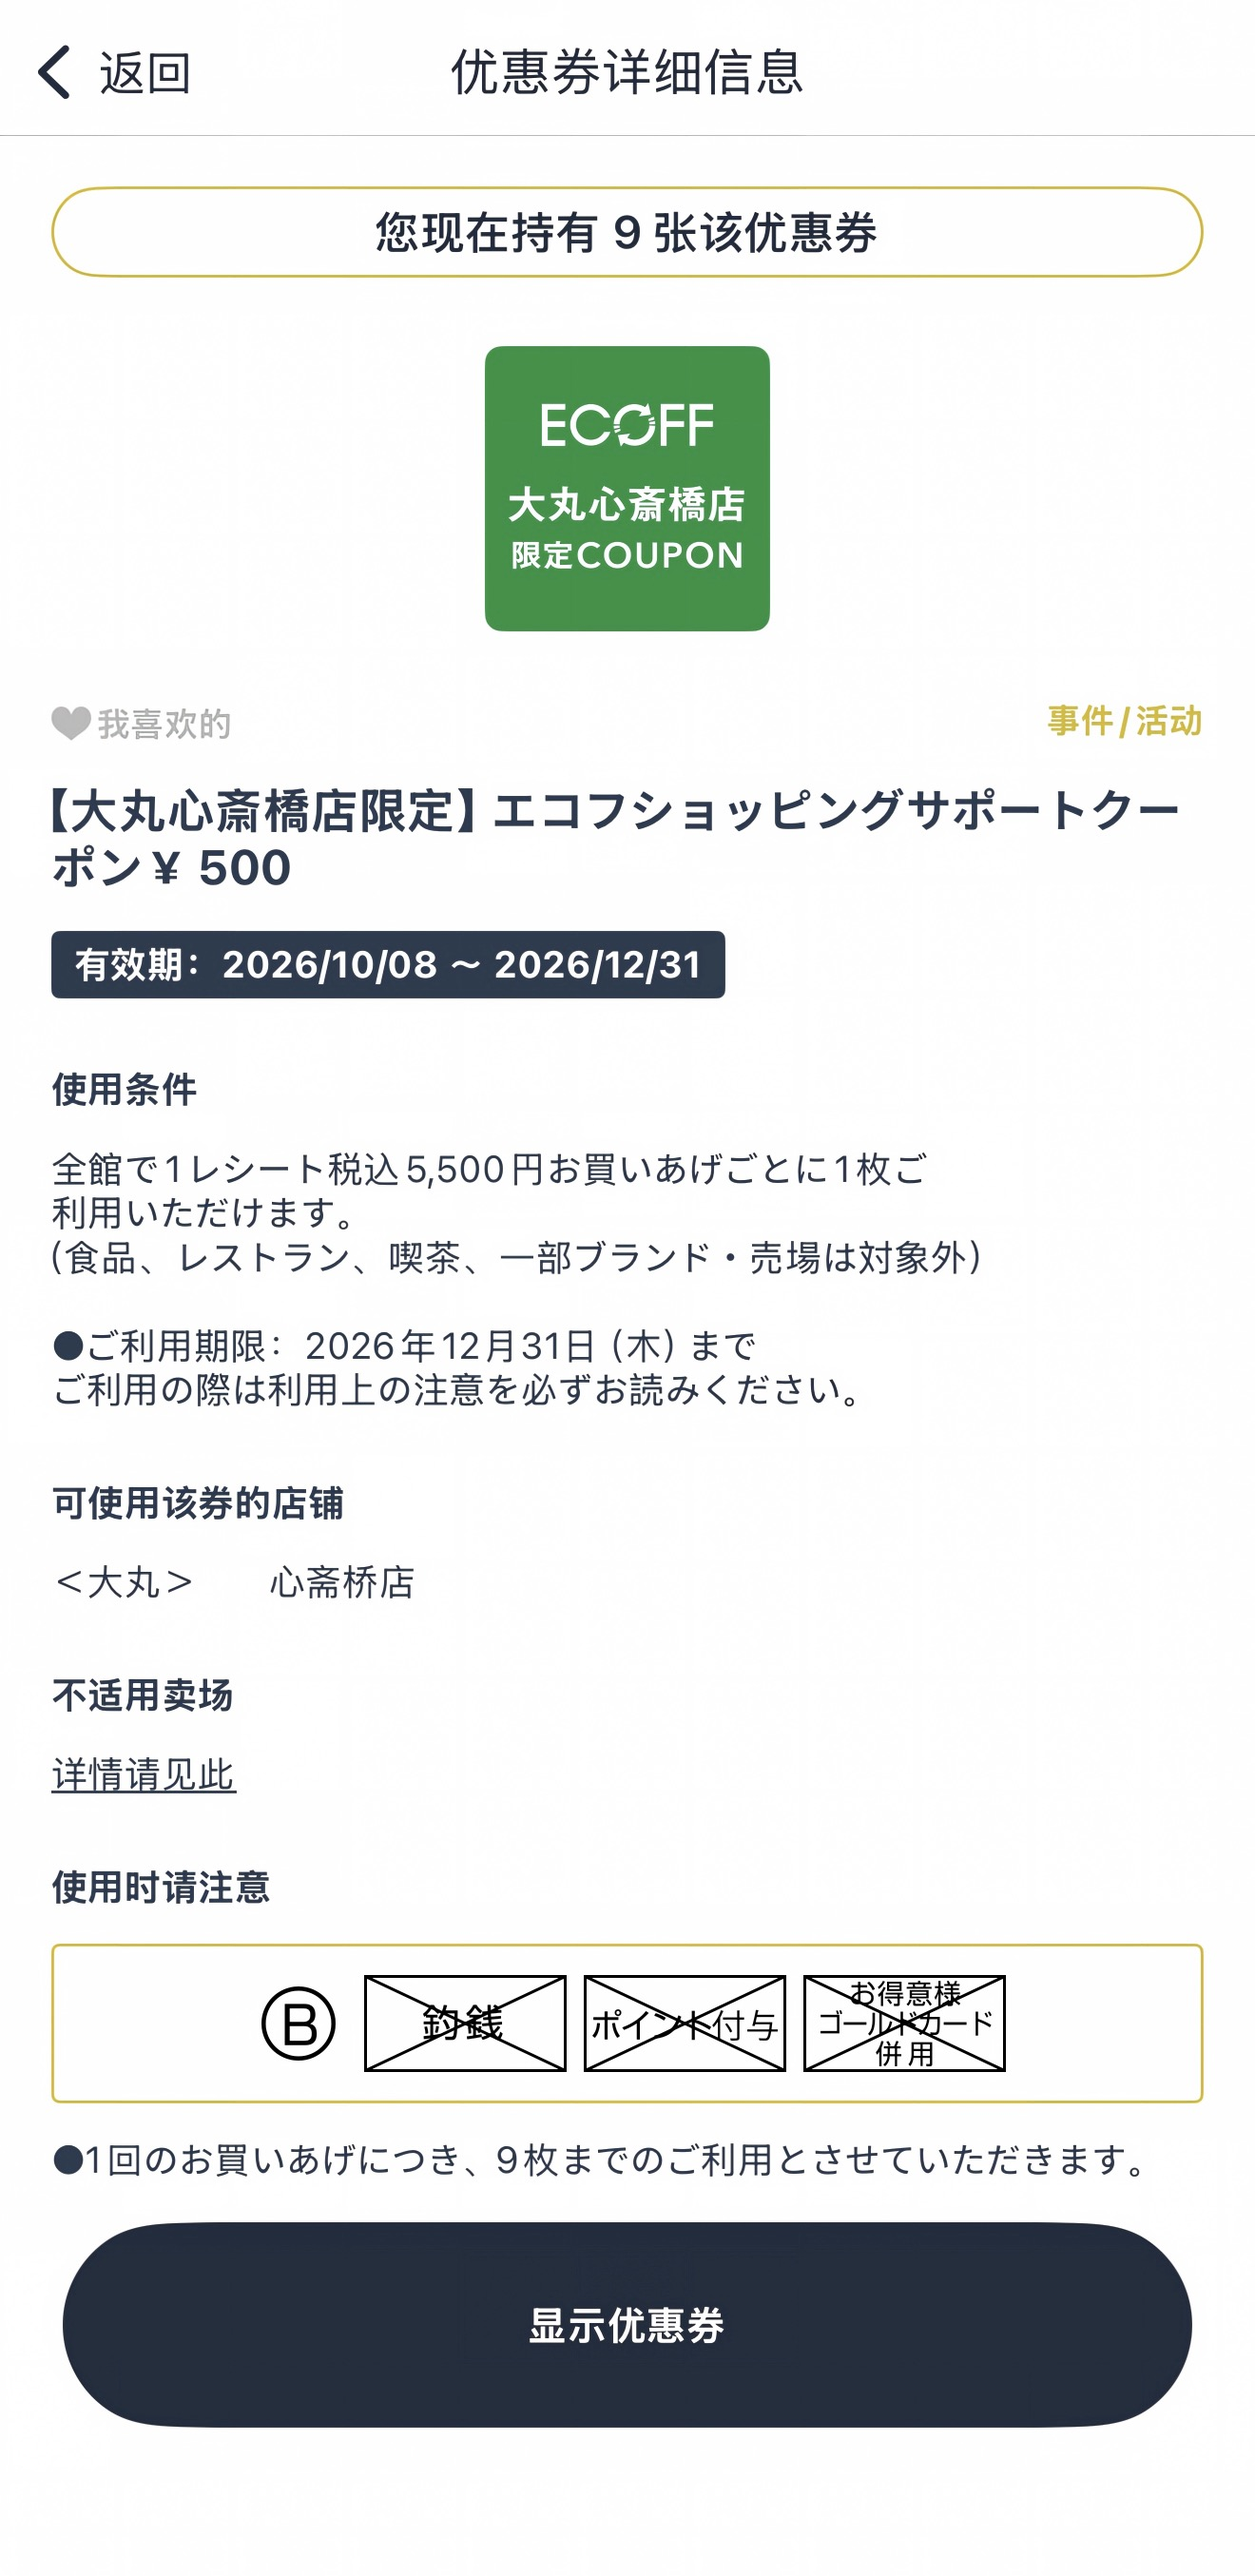
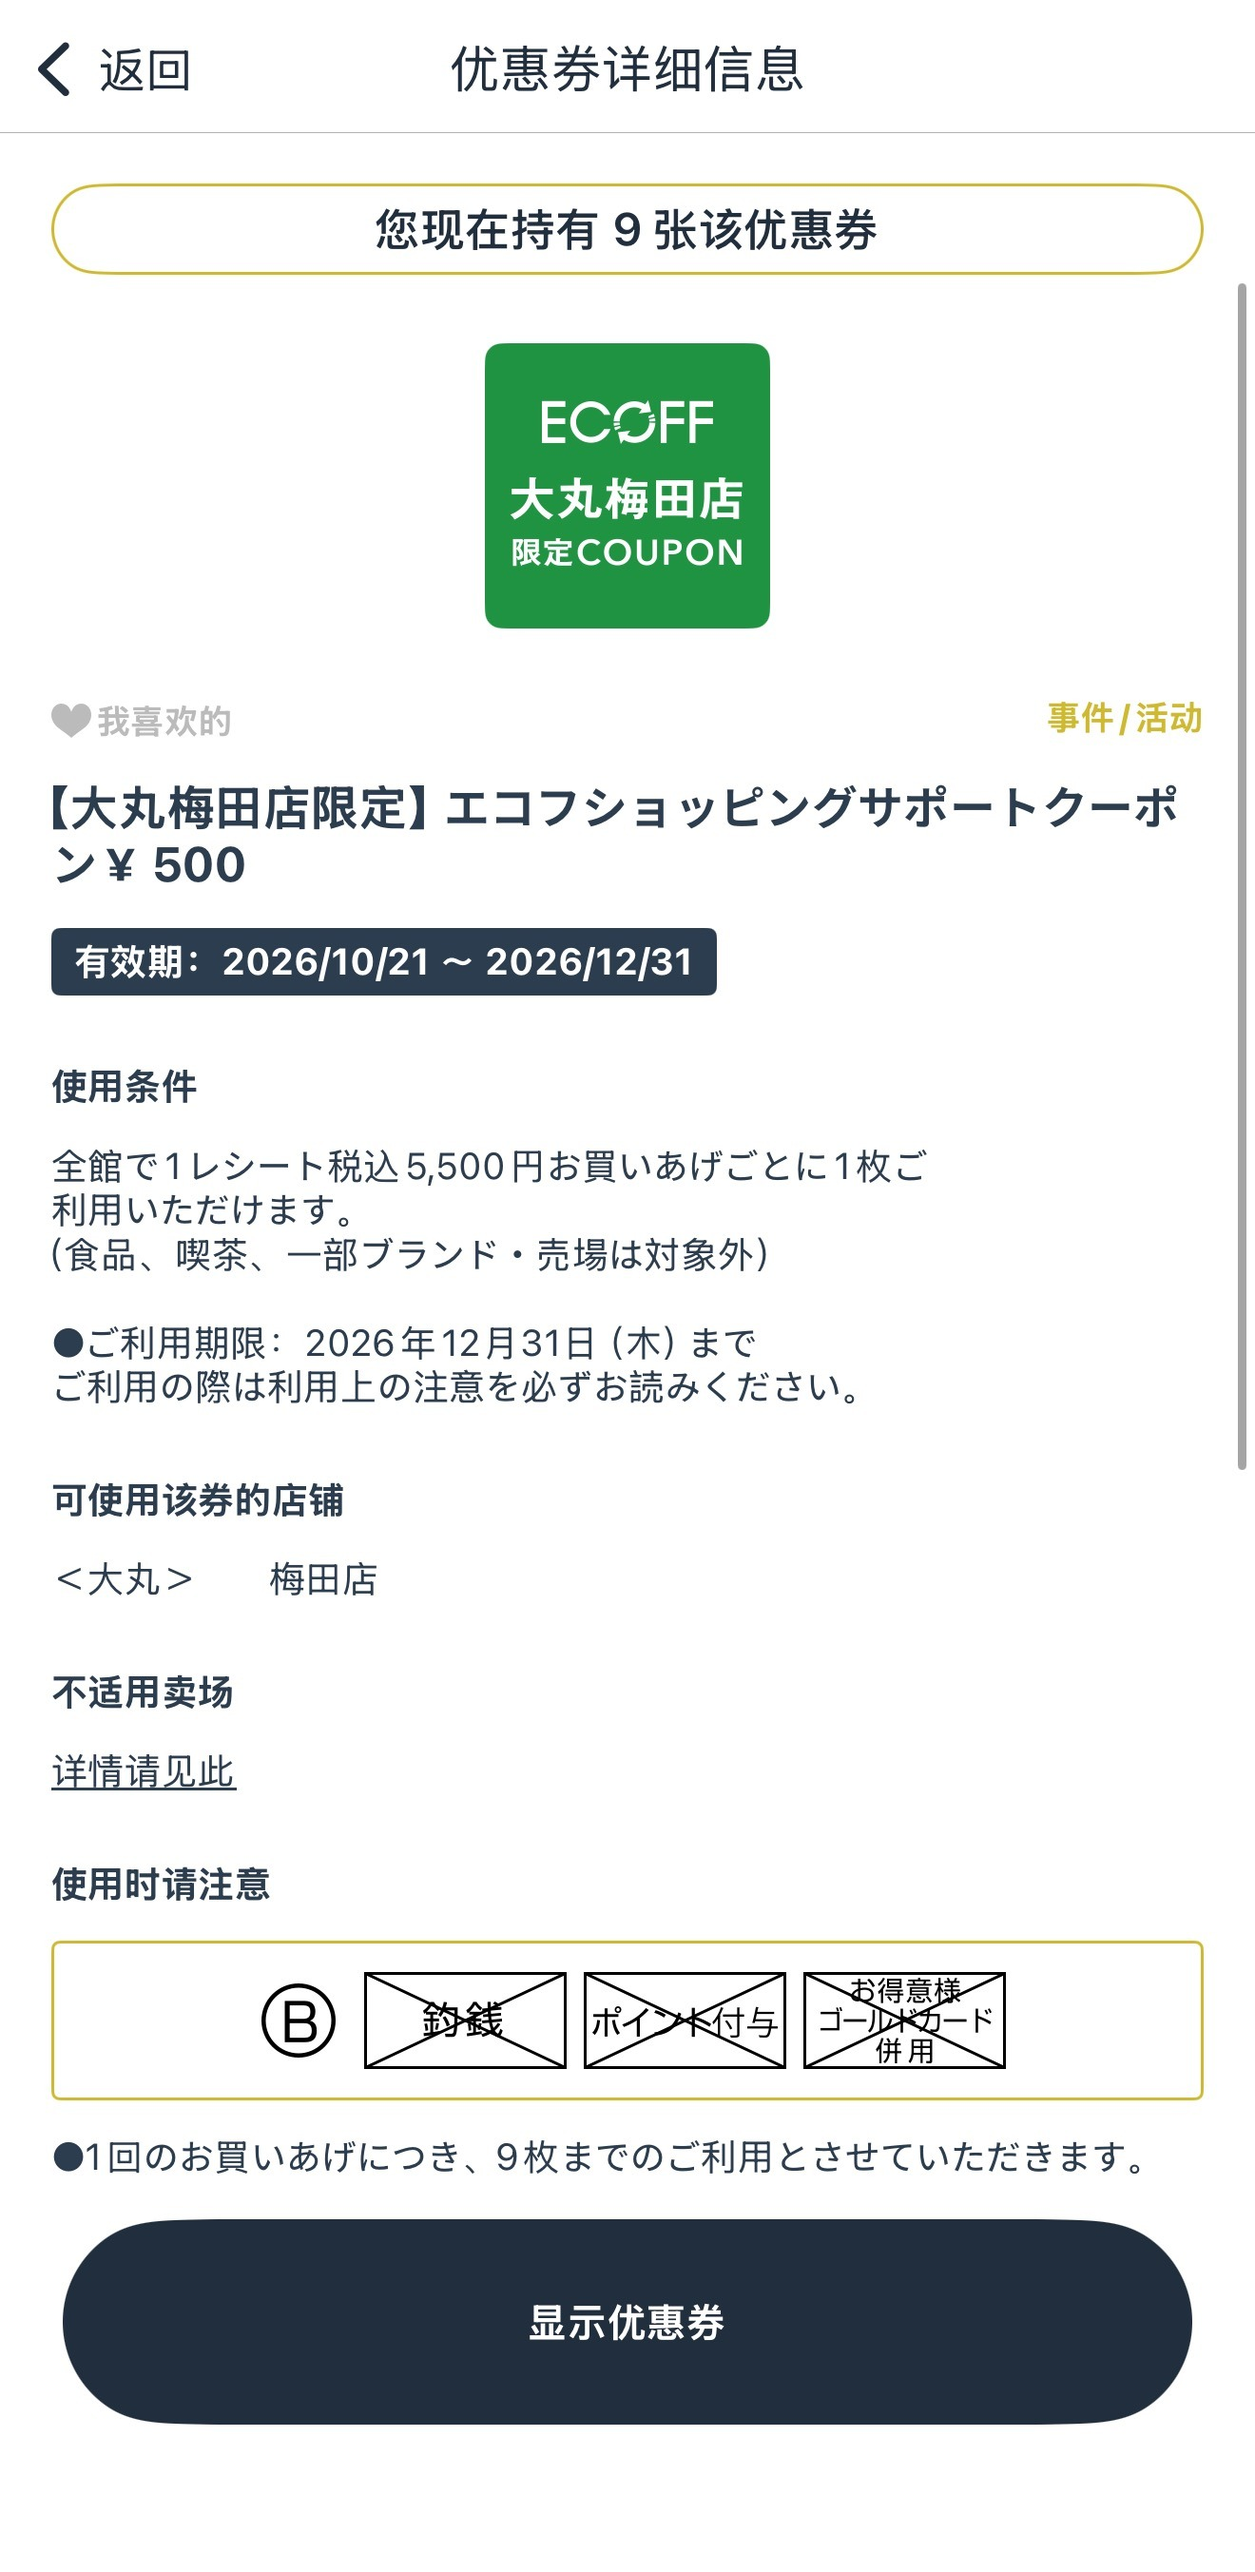
替换6张图为大丸梅田店新版；日期/时间分居时钟图标两侧；page5热区校准

diff --git a/index.html b/index.html
@@ -200,33 +200,42 @@
     .barcode-page {
       position: relative;
     }
+    /* 日期时间：竖排（rotate -90），日期和倒计时分居图中时钟图标两侧，JS 精确对位 */
     .time-display {
       position: absolute;
-      top: calc(100% * 2.5 / 3); 
-      left: calc(100% * 0.78 / 5); 
-      font-size: 7vw; 
+      top: 80%;
+      left: 14%;
+      display: flex;
+      align-items: center;
+      gap: 0.55em;
       color: #888;
       background-color: transparent;
       z-index: 10;
       transform: rotate(-90deg);
       transform-origin: top left;
-      letter-spacing: -1px;
-      font-weight: 500; 
+      font-weight: 400;
       white-space: nowrap;
       pointer-events: none;
-      font-family: "PingFang SC", "Microsoft YaHei", "Heiti SC", sans-serif; /* 系统字体序列 */
+      line-height: 1;
+      font-family: "PingFang SC", "Helvetica Neue", "Microsoft YaHei", "Heiti SC", sans-serif;
     }
-    .time-display .separator {
-      display: inline-block;
-      width: 10vw; 
-      max-width: 80px;
+    .td-date {
+      font-size: 5.5vw;
+      letter-spacing: -0.02em;
     }
-    .time-display .countdown-part {
-      color: #667380; 
-      font-weight: 400; 
-      font-size: 0.9em; 
+    .td-gap {
+      /* 让出图中自带的时钟图标位置 */
+      flex: 0 0 auto;
+      width: 6.6vw;
+      align-self: center;
     }
-    .time-display .expired {
+    .td-time {
+      font-size: 4.7vw;
+      color: #667380;
+      letter-spacing: 0;
+      font-variant-numeric: tabular-nums;
+    }
+    .td-time.expired {
       color: #ff0000;
     }
     #page3, #page5, #page6 {
@@ -250,10 +259,10 @@
     }
     .page5-click-area {
       position: absolute;
-      top: 50%;
-      left: 14%;
-      width: 66%;
-      height: 7%;
+      top: 50.8%;
+      left: 4.5%;
+      width: 76%;
+      height: 5.8%;
       background-color: transparent;
       cursor: pointer;
       z-index: 10;
@@ -281,35 +290,10 @@
       z-index: 10;
       pointer-events: auto;
     }
-    /* 统一page4和page6的时间显示样式 */
-    #page4 .time-display, #page6 .time-display {
-      position: absolute;
-      top: calc(100% * 2.55 / 3); 
-      left: calc(100% * 0.73 / 5); 
-      font-size: 6vw; 
-      color: #888;
-      background-color: transparent;
-      z-index: 10;
-      transform: rotate(-90deg);
-      transform-origin: top left;
-      letter-spacing: -1px;
-      font-weight: 400; 
-      white-space: nowrap;
-      pointer-events: none;
-      font-family: "PingFang SC", "Microsoft YaHei", "Heiti SC", sans-serif; /* 系统字体序列 */
-    }
+    /* page4 与 page6 共用 .time-display（见上），无需重复定义 */
 
     @media (max-width: 768px) {
-      .time-display {
-        font-size: 4.5vw; 
-        top: calc(100% * 2.55 / 3); 
-        left: calc(100% * 0.73 / 5); 
-        letter-spacing: 0px;
-      }
-      .time-display .separator {
-        width: 8vw; 
-        max-width: 50px;
-      }
+      /* 字号已用 vw，随宽度自适应，无需覆写 */
     }
 
     /* ── 添加到主屏幕提示条（仅在浏览器中打开时出现，桌面图标启动时不显示） ── */
@@ -426,10 +410,8 @@
       src="page7.jpg" 
       alt="优惠券使用完成页"
     >
-    <div class="time-display" id="page7TimeDisplay"></div>
     <div class="click-area" onclick="switchPage('page7', 'page1')"></div>
   </div>
-
 
   <div class="modal" id="couponModal">
     <div class="modal-content">
@@ -481,6 +463,9 @@
           countdownInterval = null;
         }
       }
+      if (toPageId === 'page4' || toPageId === 'page6') {
+        layoutClock();
+      }
     }
 
     function startCountdown() {
@@ -501,43 +486,72 @@
         if (remainingSeconds <= 0) {
           clearInterval(countdownInterval);
           countdownInterval = null;
-          const countdownEl = document.querySelector('.countdown-part');
-          if (countdownEl) countdownEl.classList.add('expired');
+          document.querySelectorAll('.td-time').forEach(function (el) { el.classList.add('expired'); });
           // 倒计时结束自动跳转page6
           switchPage('page4', 'page7');
         }
       }, 1000);
     }
 
+    /* ── 日期时间渲染：日期和倒计时分居图中时钟图标两侧 ── */
+    const CLOCK_POS = { x: 0.226, y: 0.6657 }; // 时钟图标在 page4/page6 图中的相对位置（两图实测一致）
+
+    function dateStr() {
+      const now = new Date();
+      return now.getFullYear() + '/' +
+        String(now.getMonth() + 1).padStart(2, '0') + '/' +
+        String(now.getDate()).padStart(2, '0');
+    }
+
+    function timeHTML() {
+      const m = String(Math.floor(remainingSeconds / 60)).padStart(2, '0');
+      const s = String(remainingSeconds % 60).padStart(2, '0');
+      return '<span class="td-date">' + dateStr() + '</span>' +
+             '<span class="td-gap"></span>' +
+             '<span class="td-time">' + m + ':' + s + '</span>';
+    }
+
     function updatePage4Time(seconds) {
       const now = new Date();
-      const year = now.getFullYear();
-      const month = String(now.getMonth() + 1).padStart(2, '0');
-      const day = String(now.getDate()).padStart(2, '0');
-      const dateStr = `${year}/${month}/${day}`;
-
+      const ds = now.getFullYear() + '/' +
+        String(now.getMonth() + 1).padStart(2, '0') + '/' +
+        String(now.getDate()).padStart(2, '0');
       const minutes = String(Math.floor(seconds / 60)).padStart(2, '0');
       const secs = String(seconds % 60).padStart(2, '0');
-      const countdownStr = `${minutes}:${secs}`;
-
-      document.getElementById('page4TimeDisplay').innerHTML = 
-        `${dateStr}<span class="separator"></span><span class="countdown-part">${countdownStr}</span>`;
+      document.getElementById('page4TimeDisplay').innerHTML =
+        '<span class="td-date">' + ds + '</span>' +
+        '<span class="td-gap"></span>' +
+        '<span class="td-time">' + minutes + ':' + secs + '</span>';
     }
 
     function updatePage6Time() {
-      const now = new Date();
-      const year = now.getFullYear();
-      const month = String(now.getMonth() + 1).padStart(2, '0');
-      const day = String(now.getDate()).padStart(2, '0');
-      const dateStr = `${year}/${month}/${day}`;
-
-      const minutes = String(Math.floor(remainingSeconds / 60)).padStart(2, '0');
-      const secs = String(remainingSeconds % 60).padStart(2, '0');
-      const countdownStr = `${minutes}:${secs}`;
-
-      document.getElementById('page6TimeDisplay').innerHTML = 
-        `${dateStr}<span class="separator"></span><span class="countdown-part">${countdownStr}</span>`;
+      document.getElementById('page6TimeDisplay').innerHTML = timeHTML();
     }
+
+    /* 把 .td-gap 精确对到图中时钟图标上（日期在下、时间在上） */
+    function layoutClock() {
+      ['page4TimeDisplay', 'page6TimeDisplay'].forEach(function (id) {
+        const el = document.getElementById(id);
+        if (!el || !el.innerHTML) return;
+        const page = el.closest('.page');
+        if (!page || !page.classList.contains('active')) return;
+        const img = page.querySelector('img');
+        const gap = el.querySelector('.td-gap');
+        if (!img || !gap) return;
+        const ir = img.getBoundingClientRect();
+        const gr = gap.getBoundingClientRect();
+        const tx = ir.left + CLOCK_POS.x * ir.width;
+        const ty = ir.top + CLOCK_POS.y * ir.height;
+        const dx = tx - (gr.left + gr.width / 2);
+        const dy = ty - (gr.top + gr.height / 2);
+        if (dx || dy) {
+          const cs = getComputedStyle(el);
+          el.style.left = (parseFloat(cs.left) + dx) + 'px';
+          el.style.top = (parseFloat(cs.top) + dy) + 'px';
+        }
+      });
+    }
+    window.addEventListener('resize', layoutClock);
 
     function openCouponModal() {
       document.getElementById('couponModal').style.display = 'flex';

diff --git a/sw.js b/sw.js
@@ -1,7 +1,7 @@
 /* 大丸・松坂屋 优惠券演示 PWA — Service Worker
    作用：① 离线可用 ② Android Chrome 识别为可安装应用
    每次更换图片后请把 CACHE 版本号 +1，用户端才会拿到新图。 */
-const CACHE = 'umeda-pwa-v3';
+const CACHE = 'umeda-pwa-v4';
 const ASSETS = [
   './',
   './index.html',
